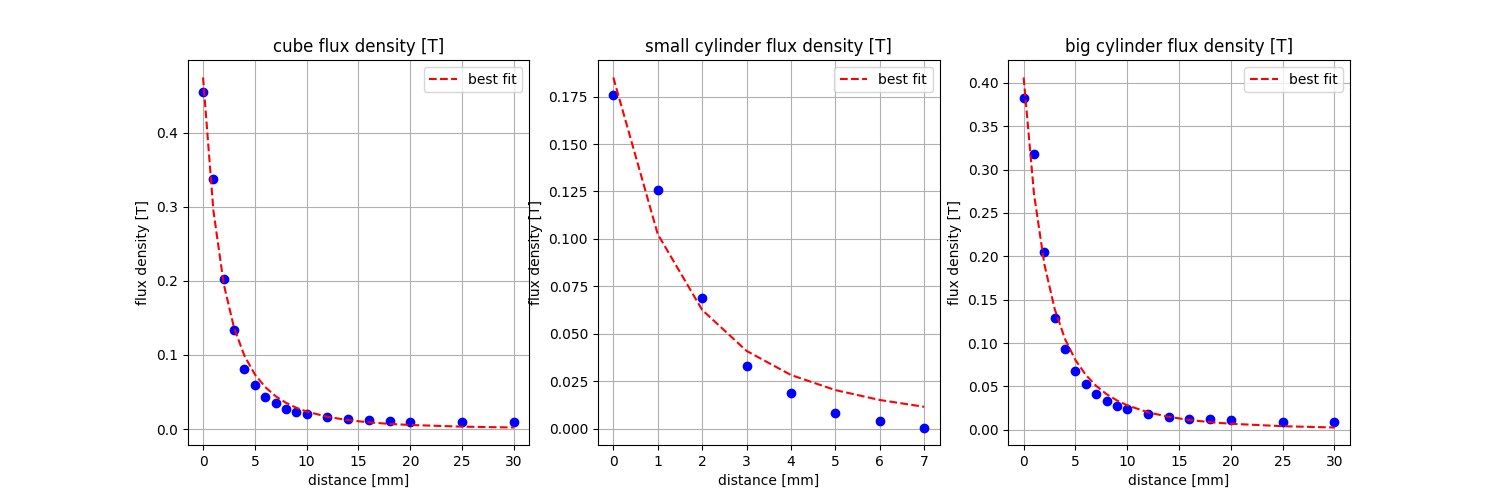
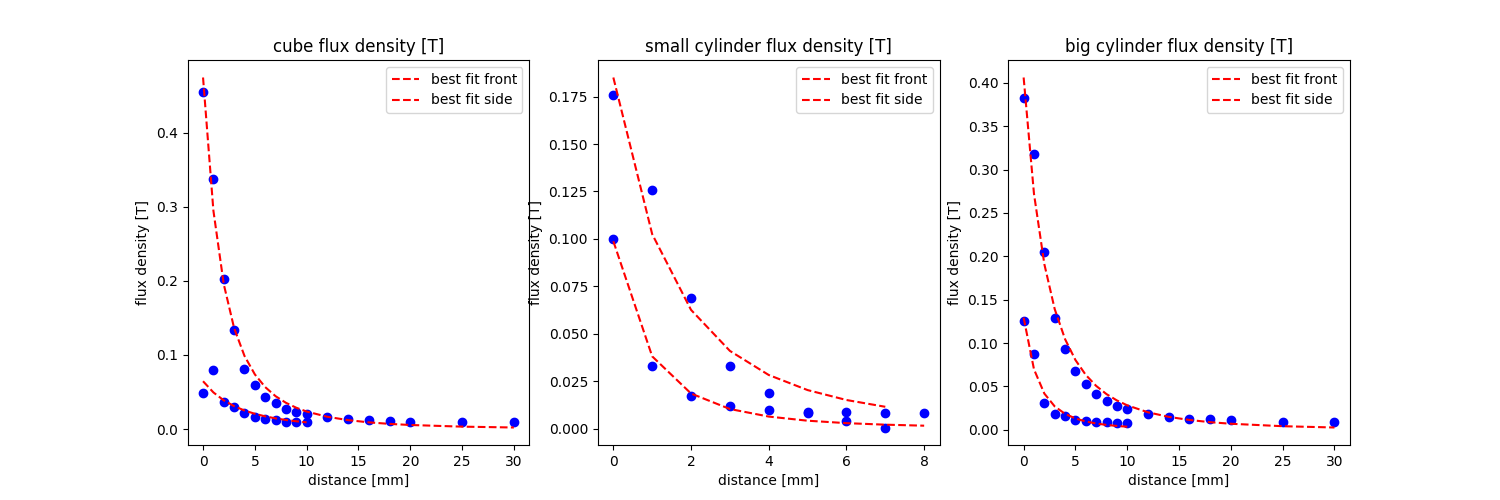
plot fit for the side

diff --git a/fit_lmfit.py b/fit_lmfit.py
@@ -140,7 +140,7 @@ fit_large_cylinder(df_front, Bx_dp)
 #    r0: -6.99293535 +/- 0.44472250 (6.36%) (init = -0.05)
 
 # %%
-def plot_results_dipole(df_front, result,parameter,fig,ax):
+def plot_results_dipole(df_front, result,parameter,fig,ax,label='best fit'):
     plt.figure(fig)
     plt.sca(ax)
     df_front = df_front.copy()
@@ -149,7 +149,7 @@ def plot_results_dipole(df_front, result,parameter,fig,ax):
         print("removing NaN values")
         df_front = df_front.dropna()
     plt.plot(df_front['distance[mm]'], df_front[parameter], 'bo')
-    plt.plot(df_front['distance[mm]'], result.best_fit, 'r--', label='best fit')
+    plt.plot(df_front['distance[mm]'], result.best_fit, 'r--', label=label)
     plt.xlabel('distance [mm]')
     plt.ylabel('flux density [T]')
     plt.title(parameter)
@@ -170,13 +170,13 @@ result_qp_cube_front = fit_dipole(df_front, Bx_with_qpole,'cube flux density [T]
 
 df_results = pd.DataFrame(index=["cube","small cylinder","big cylinder"],columns=["front","side"])
 
-for df,direction,f in zip([df_front, df_side],["front","side"],[Bx_dp]):
+for df,direction,f in zip([df_front, df_side],["front","side"],[Bx_dp,Bz]):
     for magnet_index,y,i in zip(["cube","small cylinder","big cylinder"],['cube flux density [T]','small cylinder flux density [T]','big cylinder flux density [T]'],[0,1,2]):
         for x in ['distance[m]']:
             result_dp = fit_dipole(df,f ,y,x)
             result_qp = fit_dipole(df, Bx_with_qpole,y,x)
             df_results.loc[magnet_index,direction] = f"{result_dp.params['m'].value} +/- {result_dp.params['m'].stderr}"
-            plot_results_dipole(df, result_dp,y,fig,ax[i])
+            plot_results_dipole(df, result_dp,y,fig,ax[i],"best fit " + direction)
 
 plt.savefig("fitting three panels.png")
 # %%
